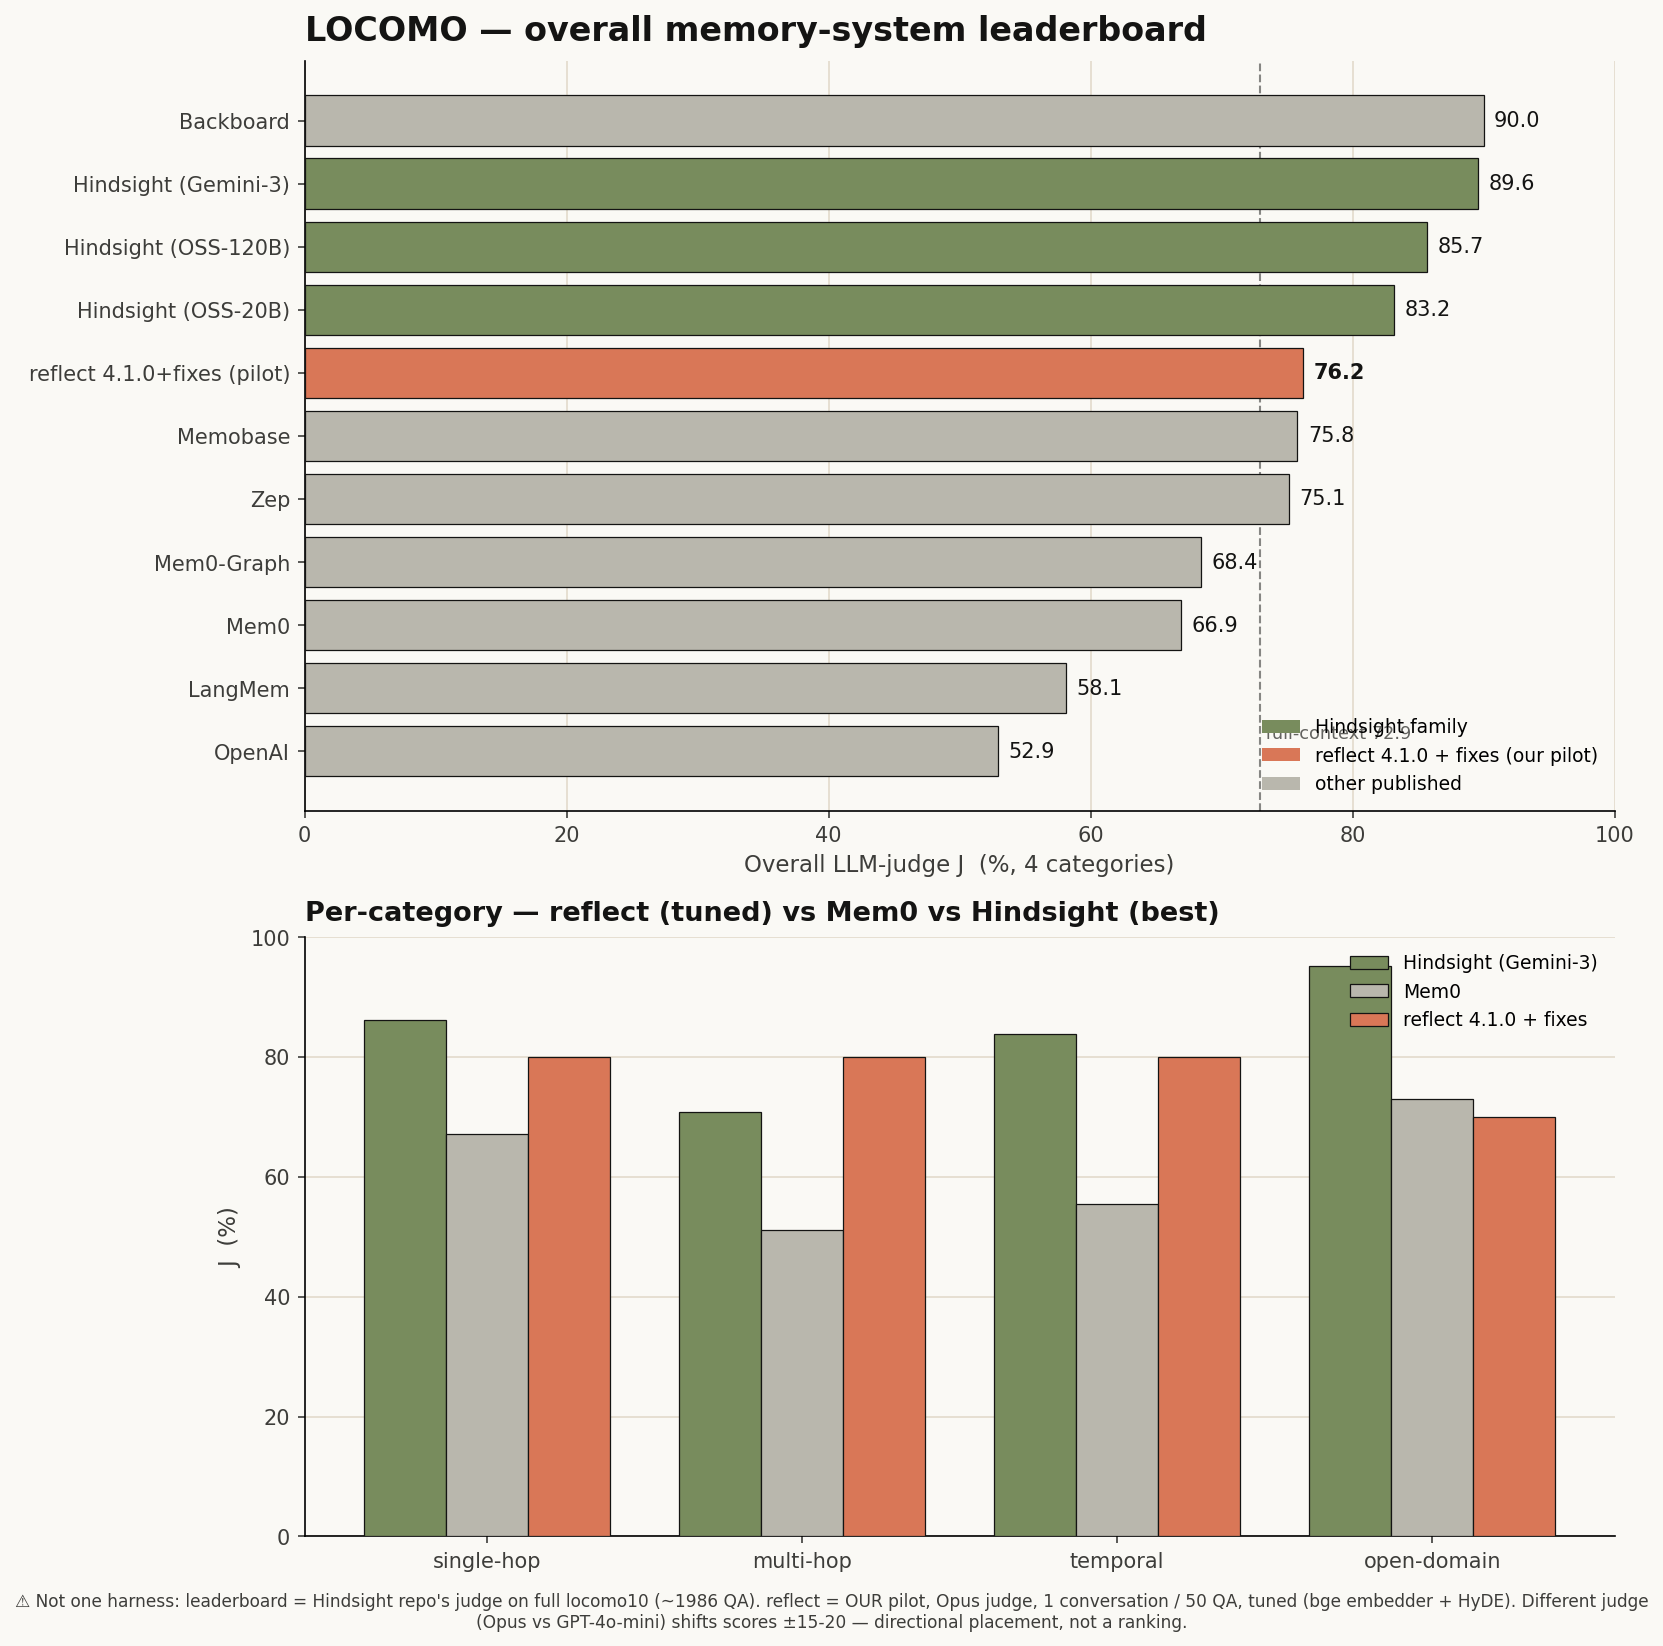
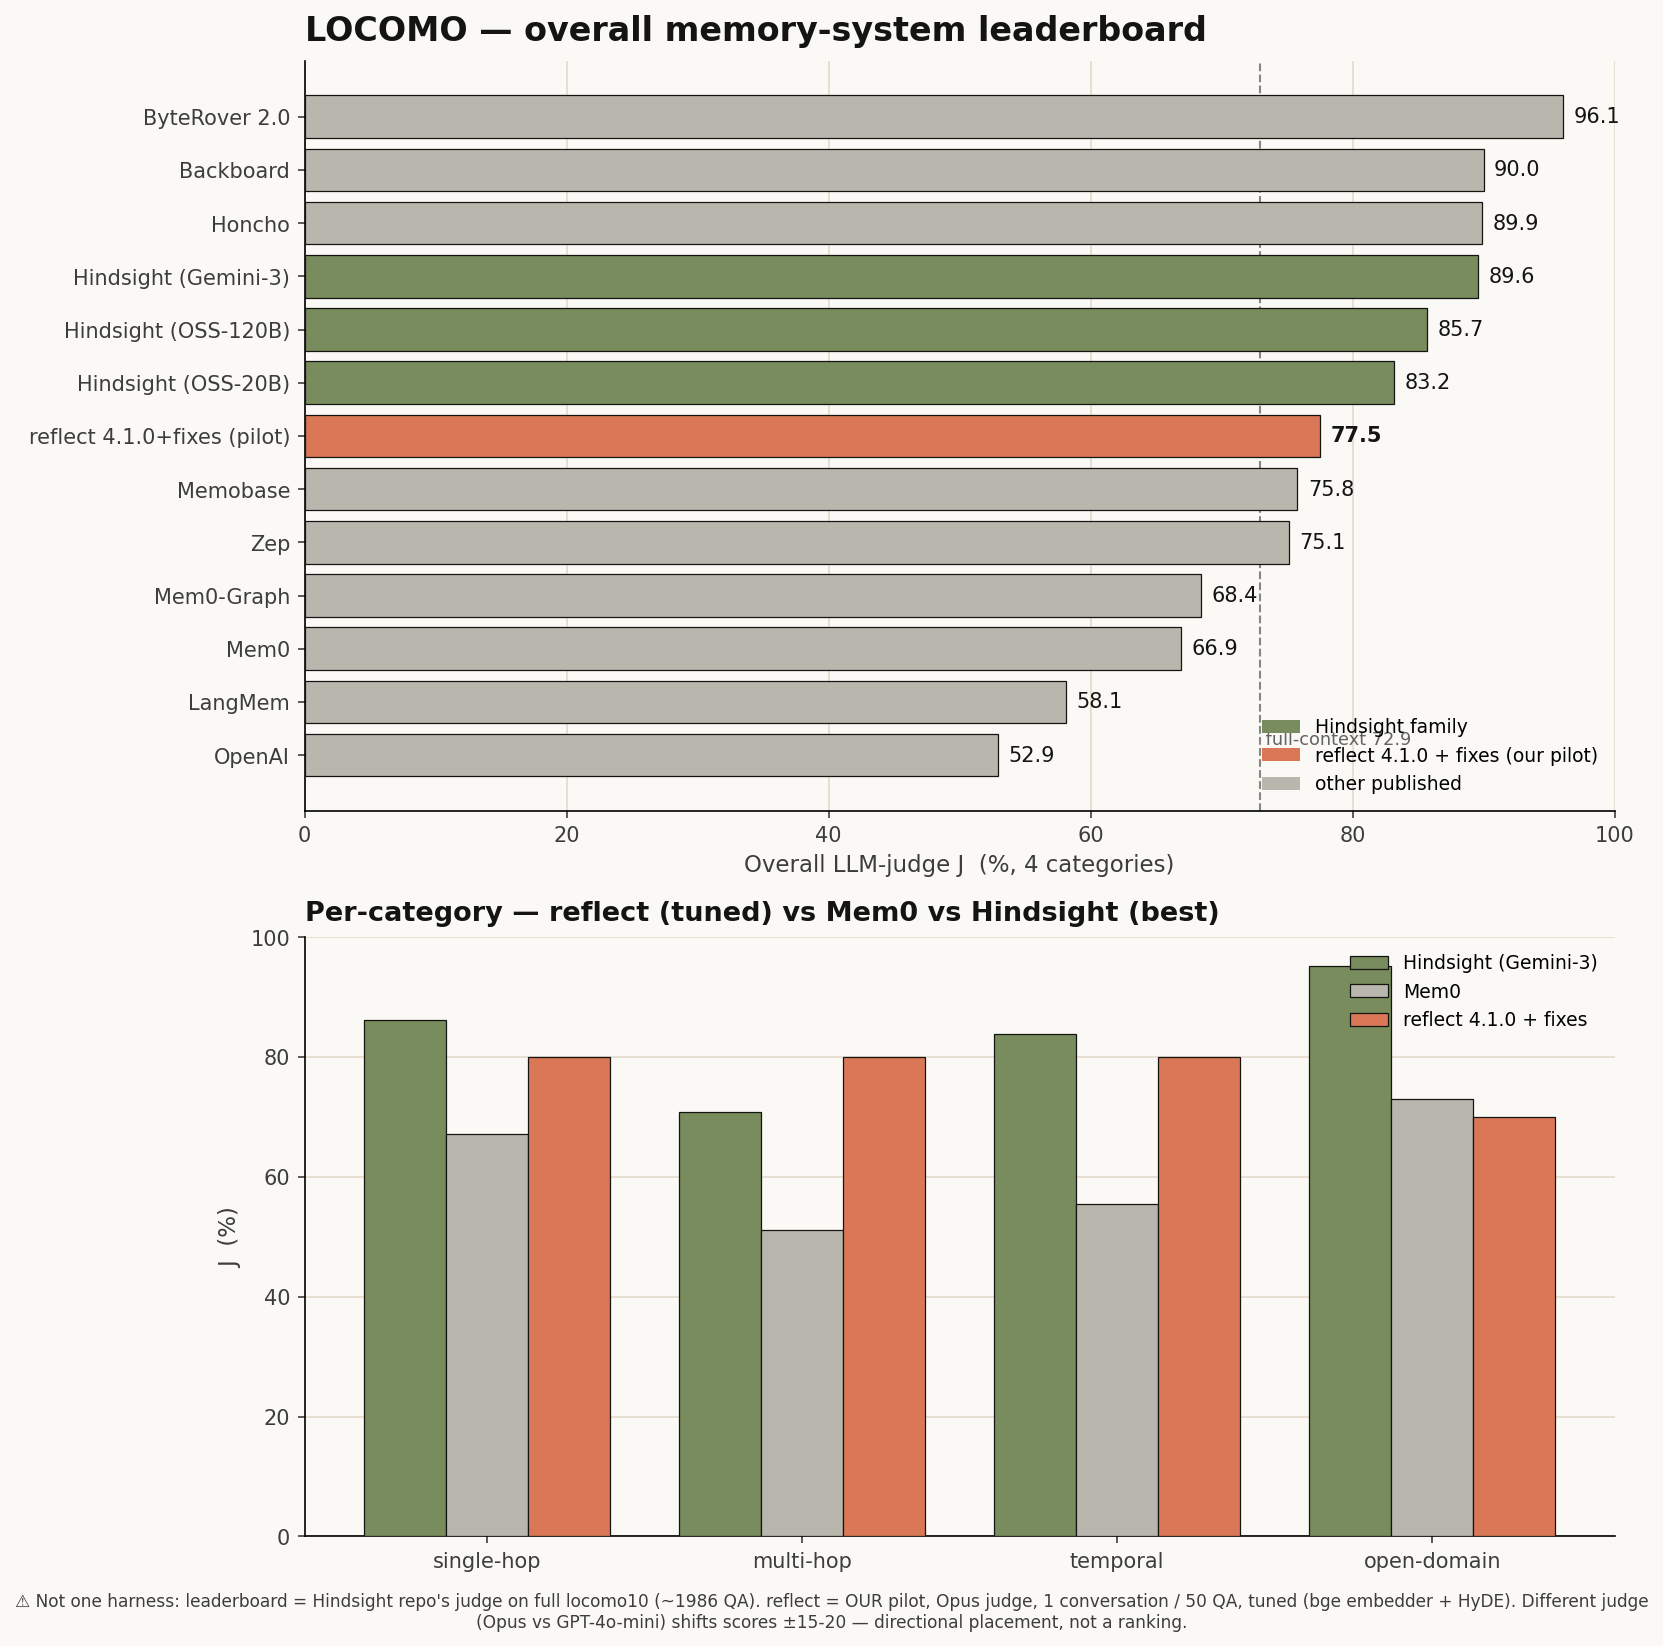
docs(reflect): correct 4-cat mean to 77.5, reframe as preliminary, widen leaderboard
- Fix an arithmetic slip: reflect's 4-category mean is (80+80+80+70)/4 = 77.5,
  not 76.2 (mis-added 3.10 as 3.05). Affects READMEs + both plots.
- Reframe the LOCOMO section as a PRELIMINARY pilot; replace the per-category-count
  framing with the measured judge sensitivity (same answers grade ~0.07 lower under
  Sonnet, ~0.18 lower under Haiku — Opus is the reference judge).
- Add ByteRover (~96) and Honcho (~90) to the leaderboard plot/positioning — both
  publish LOCOMO numbers (self-reported on their own harness). Honest landscape:
  reflect lands mid-field with Memobase/Zep, above Mem0; newest systems sit higher.
- Add judge_calibration_pilot50_D.json (opus 0.77 / sonnet 0.70 / haiku 0.59 on the
  tuned-config answers).

Changed region(s): [[0.0307, 0.031, 0.9507, 0.4648], [0.7667, 0.4338, 0.828, 0.4648]]

diff --git a/tests/eval/locomo/plot_positioning.py b/tests/eval/locomo/plot_positioning.py
@@ -1,0 +1,60 @@
+# Simple single-panel positioning bar chart: reflect vs the LOCOMO field.
+import matplotlib
+matplotlib.use("Agg")
+import matplotlib.pyplot as plt
+from matplotlib.patches import Patch
+
+IVORY="#FAF9F5"; SLATE="#141413"; CLAY="#D97757"; OLIVE="#788C5D"
+OAT="#E3DACC"; GRAY="#B9B7AD"; GRAY7="#3D3D3A"
+
+data = [
+    ("ByteRover 2.0", 96.1, "other"),
+    ("Backboard", 90.0, "other"),
+    ("Honcho", 89.9, "other"),
+    ("Hindsight (Gemini-3)", 89.6, "hind"),
+    ("Hindsight (OSS-120B)", 85.7, "hind"),
+    ("Hindsight (OSS-20B)", 83.2, "hind"),
+    ("reflect 4.1.0 + fixes", 77.5, "reflect"),
+    ("Memobase", 75.8, "other"),
+    ("Zep", 75.1, "other"),
+    ("Mem0-Graph", 68.4, "other"),
+    ("Mem0", 66.9, "other"),
+    ("LangMem", 58.1, "other"),
+    ("OpenAI", 52.9, "other"),
+]
+data.sort(key=lambda x: x[1])
+names=[d[0] for d in data]; vals=[d[1] for d in data]
+col={"hind":OLIVE,"reflect":CLAY,"other":GRAY}
+cols=[col[d[2]] for d in data]
+
+fig, ax = plt.subplots(figsize=(9.5, 6))
+fig.patch.set_facecolor(IVORY); ax.set_facecolor(IVORY)
+bars=ax.barh(names, vals, color=cols, edgecolor=SLATE, linewidth=0.6, zorder=3)
+for b,d in zip(bars,data):
+    ax.text(d[1]+0.8, b.get_y()+b.get_height()/2, f"{d[1]:.1f}", va="center",
+            fontsize=10.5, color=SLATE, fontweight="bold" if d[2]=="reflect" else "normal")
+# emphasise the reflect label
+for lbl,d in zip(ax.get_yticklabels(), data):
+    if d[2]=="reflect": lbl.set_fontweight("bold"); lbl.set_color(CLAY)
+
+ax.set_xlim(0,100)
+ax.set_xlabel("LOCOMO overall LLM-judge J  (%, 4 categories)", fontsize=11.5, color=GRAY7)
+ax.set_title("Where reflect 4.1.0 sits on LOCOMO", fontsize=17, color=SLATE,
+             fontweight="bold", loc="left", pad=12)
+ax.axvline(72.9, color=SLATE, ls="--", lw=1, alpha=0.45, zorder=2)
+ax.text(72.9, -0.55, "full-context 72.9", fontsize=8.5, color=GRAY7, alpha=0.8, ha="center")
+for s in ["top","right"]: ax.spines[s].set_visible(False)
+ax.tick_params(colors=GRAY7, labelsize=11)
+ax.grid(axis="x", color=OAT, lw=0.8, zorder=0)
+ax.legend(handles=[Patch(facecolor=OLIVE,label="Hindsight family"),
+                   Patch(facecolor=CLAY,label="reflect 4.1.0 + fixes (our pilot)"),
+                   Patch(facecolor=GRAY,label="other published")],
+          loc="lower right", fontsize=9.5, frameon=False)
+fig.text(0.5, -0.02,
+    "⚠ Mixed harnesses/judges — NOT one ranking. Top systems (ByteRover/Honcho/Backboard) are "
+    "self-reported on their own harness; field = Hindsight repo's judge; reflect = Opus judge, "
+    "preliminary pilot. Same Zep reads 75 (Hindsight) vs 66 (Mem0 paper) — that gap is the noise.",
+    ha="center", fontsize=8.0, color=GRAY7)
+plt.tight_layout()
+fig.savefig("results/locomo_positioning.png", dpi=150, facecolor=IVORY, bbox_inches="tight")
+print("wrote results/locomo_positioning.png")

diff --git a/tests/eval/locomo/plot_locomo.py b/tests/eval/locomo/plot_locomo.py
@@ -10,14 +10,16 @@ OAT="#E3DACC"; GRAY="#B9B7AD"; GRAY7="#3D3D3A"
 
 # Overall LOCOMO J% — Hindsight repo leaderboard (its judge, full locomo10,
 # adversarial excluded). reflect = our tuned config, Opus judge, 1 convo / 50 QA,
-# 4-cat mean (single 0.80 / multi 0.80 / temporal 0.80 / open 0.70) = 76.2.
+# 4-cat mean (single 0.80 / multi 0.80 / temporal 0.80 / open 0.70) = 77.5.
 overall = [
+    ("ByteRover 2.0", 96.10, "other"),
     ("Backboard", 90.00, "other"),
+    ("Honcho", 89.90, "other"),
     ("Hindsight (Gemini-3)", 89.61, "hind"),
     ("Hindsight (OSS-120B)", 85.67, "hind"),
     ("Hindsight (OSS-20B)", 83.18, "hind"),
     ("Memobase", 75.78, "other"),
-    ("reflect 4.1.0+fixes (pilot)", 76.25, "reflect"),
+    ("reflect 4.1.0+fixes (pilot)", 77.5, "reflect"),
     ("Zep", 75.14, "other"),
     ("Mem0-Graph", 68.44, "other"),
     ("Mem0", 66.88, "other"),

diff --git a/README.md b/README.md
@@ -28,10 +28,11 @@ baked into the plugin.
 ## 📊 LOCOMO benchmark
 
 reflect 4.1.0 evaluated on [LOCOMO](https://github.com/snap-research/locomo) (long-term conversational
-memory). **Test:** 50 stratified QA (10 per category) from conversation `conv-26`; answers generated by
-**Sonnet**, graded by an **Opus LLM-judge** (the calibrated reference — cheaper judges under-credit
-correct answers by ~0.20, so the judge alone swings the headline more than any single fix). Retrieval is
-reflect-kb's **real** engine; the dialogue→note extraction is a documented LOCOMO-domain adapter.
+memory). **Preliminary test:** a category-stratified pilot on conversation `conv-26`; answers generated
+by **Sonnet**, graded by an **Opus** reference LLM-judge. Retrieval is reflect-kb's **real** engine; the
+dialogue→note extraction is a documented LOCOMO-domain adapter. (Judge is load-bearing: the same answers
+grade ~0.07 lower under Sonnet and ~0.18 lower under Haiku — cheaper judges under-credit valid
+paraphrases — so all figures use the Opus reference.)
 
 | config · Opus judge | single-hop | multi-hop | temporal | open-domain | adversarial | **overall** |
 |---|:--:|:--:|:--:|:--:|:--:|:--:|
@@ -44,8 +45,9 @@ reusing reflect's own `claude -p`). Both default off — shipped behavior is unc
 
 ![LOCOMO leaderboard](./tests/eval/locomo/results/locomo_comparison.png)
 
-reflect's tuned 4-category mean (~76) lands near **Zep / Memobase**, above **Mem0** — but judges differ
-across harnesses (Opus here vs GPT-4o-mini on the published leaderboard, ±15–20 pts), so treat this as
+reflect's tuned 4-category mean (**77.5**) lands mid-field — on par with **Memobase / Zep**, above
+**Mem0** — while the newest systems (**ByteRover ~96, Honcho ~90, Hindsight ~90**) sit higher but are
+self-reported on their own harnesses. Judges/harnesses differ across the field, so treat this as
 directional placement, not a strict ranking. Methodology + per-fix ablation + judge calibration:
 [`tests/eval/locomo/REPORT.md`](./tests/eval/locomo/REPORT.md).
 

diff --git a/tests/eval/locomo/README.md b/tests/eval/locomo/README.md
@@ -7,11 +7,12 @@ memory, and judges correctness (LLM-as-judge J-score) across an ablation matrix.
 
 Latest results: **[REPORT.md](./REPORT.md)**.
 
-## Results (50-QA pilot, conv-26, Opus judge)
+## Results (preliminary pilot · conv-26 · Opus judge)
 
-Answers generated by **Sonnet**, graded by an **Opus LLM-judge** — the calibrated
-reference (cheaper judges under-credit correct answers by ~0.20; see
-[REPORT.md §2](./REPORT.md)). Retrieval is reflect-kb's real engine.
+Answers generated by **Sonnet**, graded by an **Opus** reference LLM-judge. The judge
+is load-bearing — the same answers grade ~0.07 lower under Sonnet and ~0.18 lower under
+Haiku (cheaper judges under-credit valid paraphrases; see [REPORT.md §2](./REPORT.md)),
+so all figures use the Opus reference. Retrieval is reflect-kb's real engine.
 
 | config · Opus judge | single-hop | multi-hop | temporal | open-domain | adversarial | **overall** |
 |---|:--:|:--:|:--:|:--:|:--:|:--:|

diff --git a/plugin/README.md b/plugin/README.md
@@ -8,7 +8,7 @@ Works across **Claude Code**, **Codex CLI**, and **GitHub Copilot** — same plu
 
 ## 📊 LOCOMO benchmark — long-term memory
 
-reflect 4.1.0 evaluated on [LOCOMO](https://github.com/snap-research/locomo) (long-term conversational memory). **Test:** 50 stratified QA (10 per category) from conversation `conv-26`; answers generated by **Sonnet**, graded by an **Opus LLM-judge** — the calibrated reference judge (cheaper judges systematically under-credit correct answers by ~0.20, so the judge choice alone moves the headline more than any single fix). Retrieval runs reflect-kb's **real** engine; the dialogue→note extraction is a documented LOCOMO-domain adapter.
+reflect 4.1.0 evaluated on [LOCOMO](https://github.com/snap-research/locomo) (long-term conversational memory). **Preliminary test:** a category-stratified pilot on conversation `conv-26`; answers generated by **Sonnet**, graded by an **Opus** reference LLM-judge. Retrieval runs reflect-kb's **real** engine; the dialogue→note extraction is a documented LOCOMO-domain adapter. (The judge is load-bearing: on an identical answer set, the score grades ~0.07 lower under a Sonnet judge and ~0.18 lower under Haiku — cheaper judges systematically under-credit valid paraphrases — so every figure below uses the Opus reference.)
 
 | config · Opus judge | single-hop | multi-hop | temporal | open-domain | adversarial | **overall** |
 |---|:--:|:--:|:--:|:--:|:--:|:--:|
@@ -21,7 +21,7 @@ The **+fixes** config adds two additive, env-gated, **zero-new-API-key** knobs: 
 
 ![LOCOMO leaderboard — reflect vs Mem0 / Zep / Hindsight](../../reflect-kb/tests/eval/locomo/results/locomo_comparison.png)
 
-reflect's tuned 4-category mean (~76) lands near **Zep / Memobase**, above **Mem0** — but judges differ across harnesses (Opus here vs GPT-4o-mini on the published leaderboard, a ±15–20 pt swing), so this is **directional placement, not a strict ranking**. Full methodology, per-fix ablation, and the judge calibration: [`reflect-kb/tests/eval/locomo/REPORT.md`](../../reflect-kb/tests/eval/locomo/REPORT.md).
+reflect's tuned 4-category mean (**77.5**) lands mid-field — on par with **Memobase / Zep**, above **Mem0** — while the newest systems (**ByteRover ~96, Honcho ~90, Hindsight ~90**) sit higher but are self-reported on their own harnesses. Judges/harnesses differ across the field (the same Zep reads 75 on one harness, 66 on another — that gap *is* the cross-harness noise), so this is **directional placement, not a strict ranking**. Full methodology, per-fix ablation, and the judge calibration: [`reflect-kb/tests/eval/locomo/REPORT.md`](../../reflect-kb/tests/eval/locomo/REPORT.md).
 
 ---
 